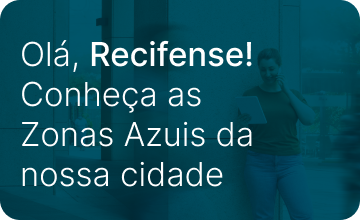
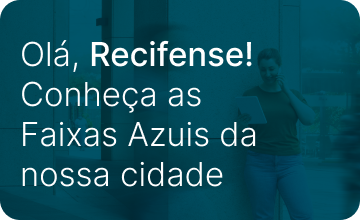
final

Changed region(s): [[0.0611, 0.5455, 0.7333, 0.6818]]

diff --git a/app/index.jsx b/app/index.jsx
@@ -9,8 +9,8 @@ const Home = () => {
       <Image
         source={require('../assets/images/hero.png')}
       />
-      <Text style={styles.paragraph}>A Prefeitura do Recife proporciona a democratização do espaço público nas movimentadas vias do Centro com o Estacionamento Zona Azul. 
-        Os condutores contam, hoje em dia, com mais de 3.500 vagas destinadas a carros, ônibus de turismo, táxis e veículos de carga e descarga.</Text>
+      <Text style={styles.paragraph}>A Prefeitura do Recife proporciona a democratização do espaço público nas movimentadas vias do Centro com o projeto Faixa Azul. 
+      As faixas azuis conectam as cidades e representam um alívio para passageiros e motoristas que reside no Grande Recife e precisa entrar e sair do Recife diariamente.</Text>
     </SafeAreaView>
 
   )
